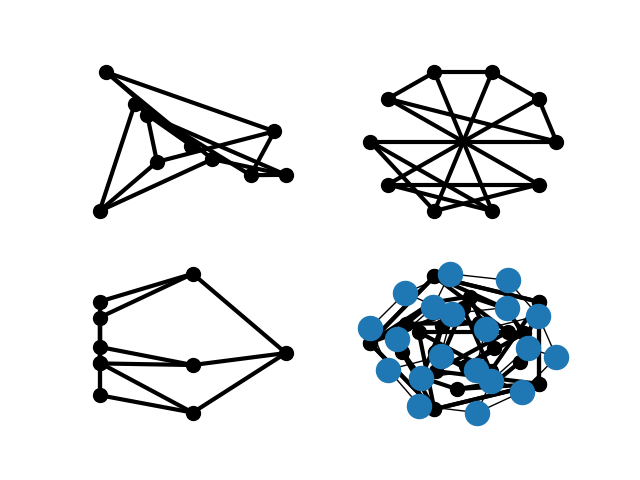
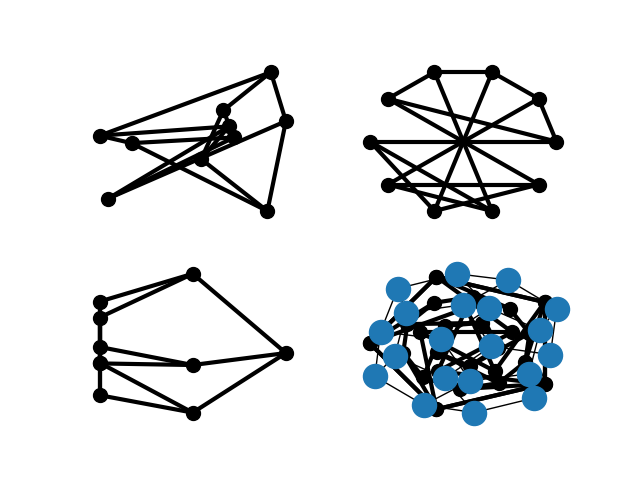
New star in Universe - Sepinoud Azimi

Changed region(s): [[0.5625, 0.5312, 0.9062, 0.9062], [0.125, 0.125, 0.4688, 0.4688]]

diff --git a/tutorial.py b/tutorial.py
@@ -1,0 +1,189 @@
+import networkx as nx
+import matplotlib
+
+
+def tutorial():
+    G = nx.Graph()
+    G.add_node(1)
+    G.add_nodes_from([2, 3])
+    G.add_nodes_from([
+        (4, {"color": "red"}),
+        (5, {"color": "green"}),
+    ])
+    H = nx.path_graph(10)
+    G.add_nodes_from(H)
+    nx.draw(G)
+
+    G.add_edge(1, 2)
+    e = (2, 3)
+    G.add_edge(*e)  # unpack edge tuple*
+    nx.draw(G)
+
+    G.add_edges_from([(1, 2), (1, 3)])
+    G.add_edges_from(H.edges)
+    G.clear()
+    nx.draw(G)
+    nx.draw(H)
+
+    G.add_edges_from([(1, 2), (1, 3)])
+    G.add_node(1)
+    G.add_edge(1, 2)
+    G.add_node("spam")  # adds node "spam"
+    G.add_nodes_from("spam")  # adds 4 nodes: 's', 'p', 'a', 'm'
+    G.add_edge(3, 'm')
+    nx.draw(G)
+    print(G.number_of_nodes())
+
+    DG = nx.DiGraph()
+    DG.add_edge(2, 1)  # adds the nodes in order 2, 1
+    DG.add_edge(1, 3)
+    DG.add_edge(2, 4)
+    DG.add_edge(1, 2)
+    assert list(DG.successors(2)) == [1, 4]
+    assert list(DG.edges) == [(2, 1), (2, 4), (1, 3), (1, 2)]
+
+    nx.draw(DG)
+    print(G.nodes)
+    print(G.edges)
+    print(G.adj[1])
+
+    print(G.degree[1])  # the number of edges incident to 1
+
+    G.remove_node(2)
+    G.remove_nodes_from("spam")
+    print(G.nodes)
+
+    G.add_edge(1, 2)
+    H = nx.DiGraph(G)  # create a DiGraph using the connections from G
+    print(H.edges())
+    edgelist = [(0, 1), (1, 2), (2, 3)]
+    H = nx.Graph(edgelist)
+
+    G = nx.Graph([(1, 2, {"color": "yellow"})])
+    print(G[1])  # same as G.adj[1]
+    print(G[1][2])
+    print(G.edges[1, 2])
+
+    G.add_edge(1, 3)
+    G[1][3]['color'] = "blue"
+    G.edges[1, 2]['color'] = "red"
+    print(G.edges[1, 2])
+    print(G)
+    print(G.nodes)
+    print(G.edges)
+
+    FG = nx.Graph()
+    FG.add_weighted_edges_from([(1, 2, 0.125), (1, 3, 0.75), (2, 4, 1.2), (3, 4, 0.375)])
+    for n, nbrs in FG.adj.items():
+        for nbr, eattr in nbrs.items():
+            wt = eattr['weight']
+            if wt < 0.5: print(f"({n}, {nbr}, {wt:.3})")
+
+    print("Кромки")
+    for (u, v, wt) in FG.edges.data('weight'):
+        if wt < 0.5:
+            print(f"({u}, {v}, {wt:.3})")
+
+    G = nx.Graph(day="Friday")
+    print(G.graph)
+    G.graph['day'] = "Monday"
+    print(G.graph)
+
+    G.add_node(1, time='5pm')
+    G.add_nodes_from([3], time='2pm')
+    print(G.nodes[1])
+    G.nodes[1]['room'] = 714
+    print(G.nodes.data())
+
+    G.add_edge(1, 2, weight=4.7)
+    G.add_edges_from([(3, 4), (4, 5)], color='red')
+    G.add_edges_from([(1, 2, {'color': 'blue'}), (2, 3, {'weight': 8})])
+    G[1][2]['weight'] = 4.7
+    G.edges[3, 4]['weight'] = 4.2
+    print(G)
+    print(G.nodes.data())
+
+    #  Directed graphs¶
+    DG = nx.DiGraph()
+    DG.add_weighted_edges_from([(1, 2, 0.5), (3, 1, 0.75)])
+    print(DG.out_degree(1, weight='weight'))
+
+    print(DG)
+    print(DG.nodes.data())
+
+    DG.degree(1, weight='weight')
+    print(DG.successors(1))
+    print(DG.neighbors(1))
+    print(DG)
+    print(DG.nodes.data())
+
+    H = nx.Graph(G)  # create an undirected graph H from a directed graph G
+    print(H)
+    print(H.nodes.data())
+
+    #  Multigraphs
+    MG = nx.MultiGraph()
+    MG.add_weighted_edges_from([(1, 2, 0.5), (1, 2, 0.75), (2, 3, 0.5)])
+    dict(MG.degree(weight='weight'))
+    GG = nx.Graph()
+    for n, nbrs in MG.adjacency():
+        for nbr, edict in nbrs.items():
+            minvalue = min([d['weight'] for d in edict.values()])
+            GG.add_edge(n, nbr, weight=minvalue)
+
+    print(nx.shortest_path(GG, 1, 3))
+
+    G = nx.Graph()
+    G.add_edges_from([(1, 2), (1, 3)])
+    G.add_node("spam")  # adds node "spam"
+    list(nx.connected_components(G))
+
+    print(sorted(d for n, d in G.degree()))
+    print(nx.clustering(G))
+
+    sp = dict(nx.all_pairs_shortest_path(G))
+    print(sp[3])
+
+    G = nx.petersen_graph()
+    subax1 = matplotlib.pyplot.subplot(121)
+    nx.draw(G, with_labels=True, font_weight='bold')
+    subax2 = matplotlib.pyplot.subplot(122)
+    nx.draw_shell(G, nlist=[range(5, 10), range(5)], with_labels=True, font_weight='bold')
+    matplotlib.pyplot.show()
+
+    options = {
+        'node_color': 'black',
+        'node_size': 100,
+        'width': 3,
+    }
+    subax1 = matplotlib.pyplot.subplot(221)
+    nx.draw_random(G, **options)
+    subax2 = matplotlib.pyplot.subplot(222)
+    nx.draw_circular(G, **options)
+    subax3 = matplotlib.pyplot.subplot(223)
+    nx.draw_spectral(G, **options)
+    subax4 = matplotlib.pyplot.subplot(224)
+    nx.draw_shell(G, nlist=[range(5, 10), range(5)], **options)
+    G = nx.dodecahedral_graph()
+    shells = [[2, 3, 4, 5, 6], [8, 1, 0, 19, 18, 17, 16, 15, 14, 7], [9, 10, 11, 12, 13]]
+    nx.draw_shell(G, nlist=shells, **options)
+    nx.draw(G)
+    matplotlib.pyplot.savefig("path.png")
+
+    # from networkx.drawing.nx_pydot import write_dot
+    # pos = nx.nx_agraph.graphviz_layout(G)
+    # nx.draw(G, pos=pos)
+    # write_dot(G, 'file.dot')
+
+    G = nx.complete_graph(5)
+    nx.draw(G)
+
+    #  G = nx.complete_graph(5)
+    #  A = nx.nx_agraph.to_agraph(G)
+    #  H = nx.nx_agraph.from_agraph(A)
+
+    # Introduction to NetworkX in Python
+    G = nx.barabasi_albert_graph(100,2)
+    nx.draw_spring(G)
+
+

diff --git a/sepinouda.py b/sepinouda.py
@@ -1,0 +1,16 @@
+# Introduction to Data Science - NetworkX Tutorial by Sepinoud Azimi
+
+import networkx as nx
+
+def sepinouda():
+    # Use a breakpoint in the code line below to debug your script.
+    print(f'Hi, {name}')  # Press Ctrl+F8 to toggle the breakpoint.
+
+    G = nx.Graph()
+    G.add_edge('A', 'B', weight=13, relation='friend')
+    G.add_edge('B', 'C', weight=9, relation='family')
+    G.add_edge('B', 'D', weight=7, relation='friend')
+    G.add_edge('E', 'B', weight=10, relation='friend')
+    G.add_edge('E', 'A', weight=1, relation='enemy')
+    G.add_edge('F', 'B', weight=13, relation='family')
+    G.edges(data=True)
